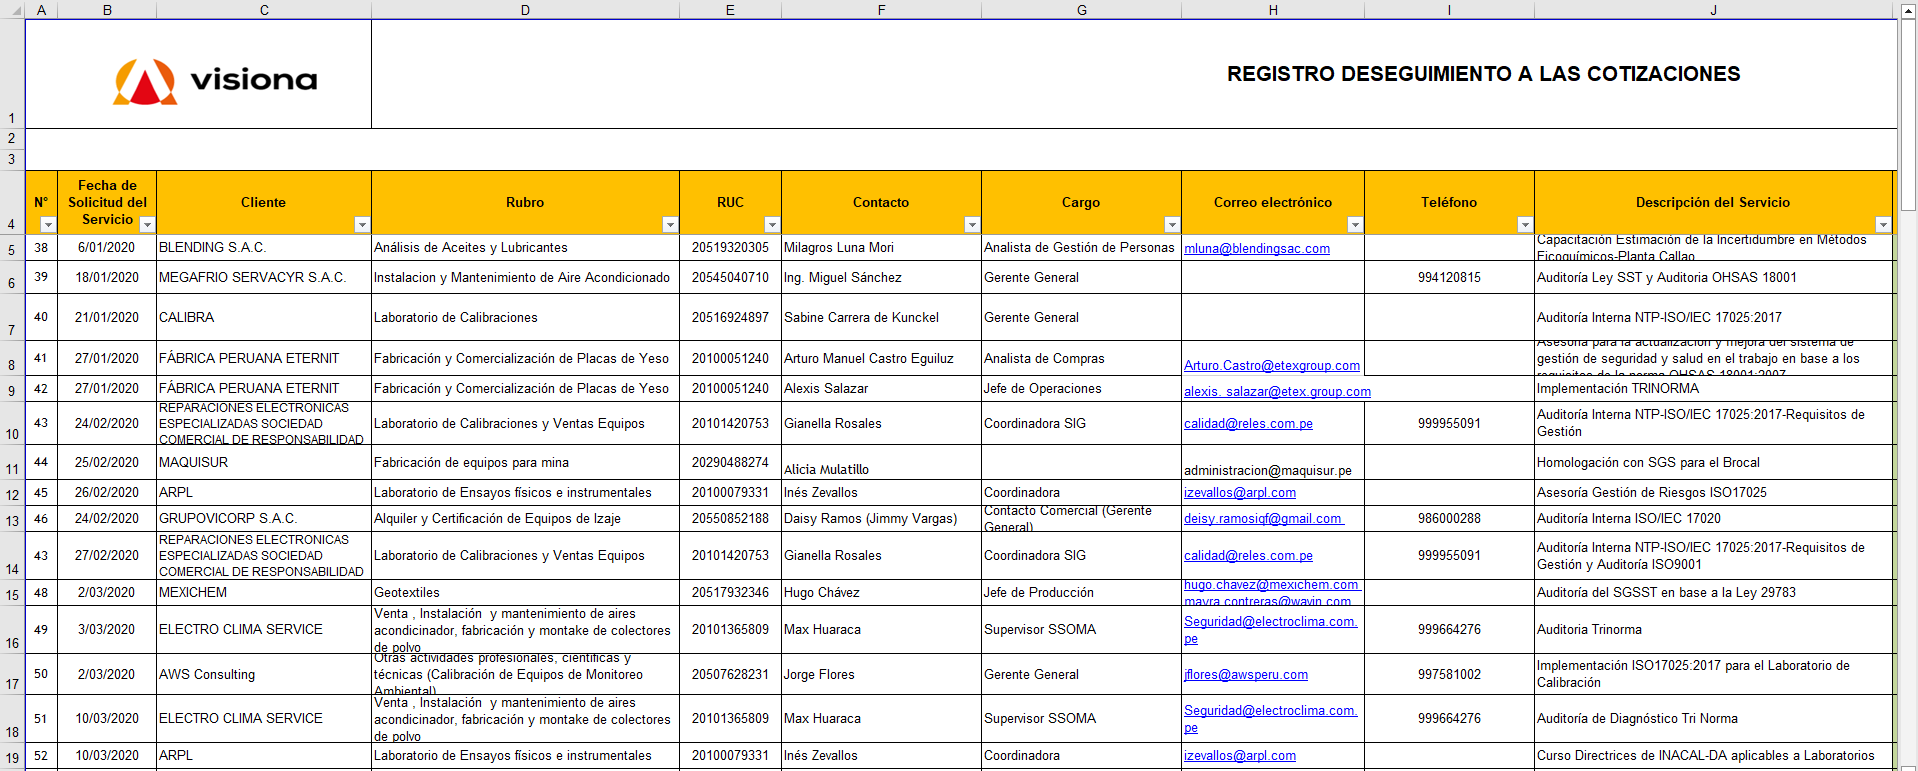
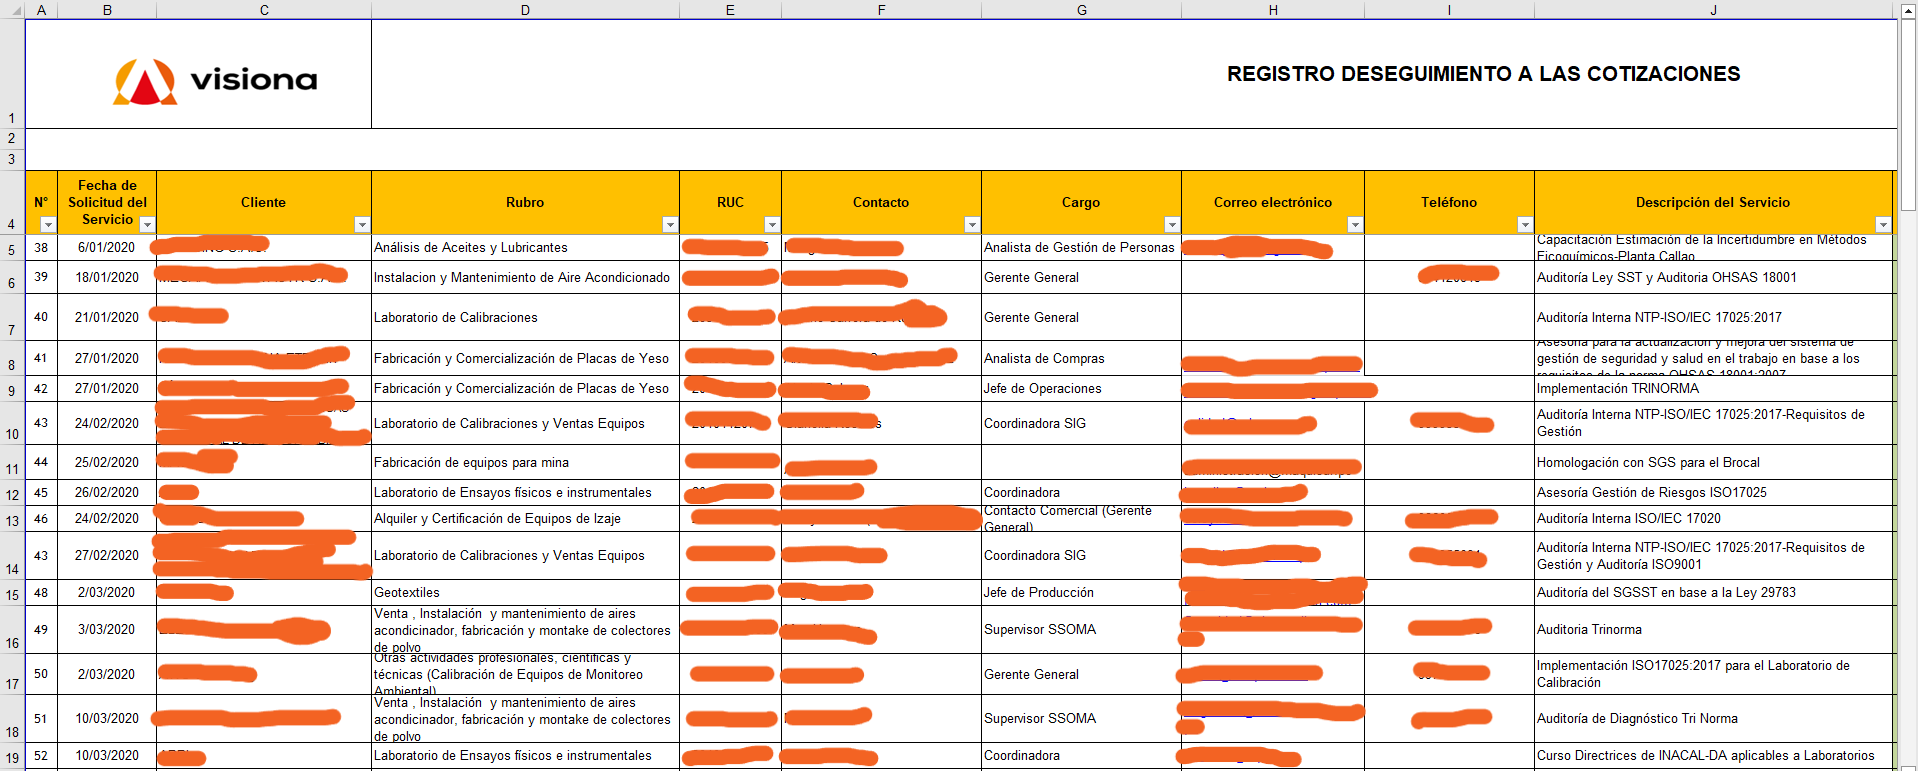
Análisis de Proceso Cotización
Se documentó el proceso actual de cotización, el problema principal del proceso y las alternativas de solución

diff --git a/docs/1-estudio_del_negocio/7-proceso_cotizacion_propuesto.md b/docs/1-estudio_del_negocio/7-proceso_cotizacion_propuesto.md
@@ -1,0 +1,39 @@
+# Solución Propuesta
+
+El presente documento tiene como objetivo documentar la solución propuesta para la mejora del proceso de cotización mediante un sistema de información que permita centralizar la información relevante. Se realizará también un diagrama de proceso para este nuevo proceso.
+
+## Análisis de alternativas
+
+A continuación se presenta una tabla de las alternativas posibles que buscan solucionar el problema identificado, incluyendo ventajas y desventajas:
+
+| Alternativa | Descripción | Ventajas | Desventajas |
+| --- | --- |--- |---|
+| **A1. Mantener proceso manual, optimizando plantillas** | Estandarizar las cotizaciones mediante plantillas en Microsoft Word o Excel y establecer un procedimiento interno para su elaboración y seguimiento.| Muy bajo costo, implementación inmediata, no requiere capacitación técnica.| Continúa dependiendo del trabajo manual, mayor probabilidad de errores, no centraliza la información ni facilita seguimiento.|
+| **A2. Plataforma de gestión comercial existente (CRM)** | Implementar una herramienta comercial en la nube que incluya módulos para clientes, oportunidades y cotizaciones. | Implementación rápida, funcionalidades ya desarrolladas, soporte del proveedor. | Costos de suscripción, funcionalidades innecesarias para la empresa, limitada personalización y dependencia de un tercero.|
+| **A3. Aplicación de escritorio con base de datos local**| Crear un sistema instalado en los equipos de la empresa con una base de datos compartida dentro de la red local.| No depende de Internet para su funcionamiento interno, mayor control sobre los datos.| Requiere que los usuarios trabajen desde la oficina, dificulta el acceso remoto, el mantenimiento y las copias de seguridad son más complejos. |
+| **A4. Sistema web de cotizaciones con servidor web** | Desarrollar un sistema web centralizado, alojado en un servidor web, que permita gestionar clientes, servicios y cotizaciones mediante una base de datos única, accesible desde cualquier equipo autorizado con conexión a Internet. | Información centralizada, acceso remoto, seguimiento de cotizaciones en tiempo real, mayor escalabilidad, facilidad de mantenimiento y respaldo de la información. | Puede requerir una inversión inicial en desarrollo y alojamiento web, además de depender de una conexión a Internet para su funcionamiento.|
+
+## Selección de la Solución
+
+Tras analizar las alternativas propuestas, se selecciona 
+
+``` text
+Sistema web de cotizaciones con servidor web
+```
+
+Esto debido a que ofrece la mejor relación entre funcionalidad, accesibilidad y escalabilidad para las necesidades de Visiona. Esta solución permitirá centralizar la información, automatizar el proceso de elaboración y seguimiento de cotizaciones, reducir errores derivados de la gestión manual y facilitar el acceso al sistema desde cualquier ubicación autorizada.
+
+## Diagrama de Proceso (TO BE)
+
+<img width="1000"  alt="image" src="files/proceso_cotizacion_tobe.png" />  
+
+A continuación, la descripción de cada parte del proceso:
+
+1. El proceso empieza cuando un cliente solicita una cotización; esta comunicación se da mediante el correo electrónico de la empresa, el número de teléfono empresarial u otro medio de comunicación alternativo.
+2. Una vez recibida la solicitud, el encargado de realizar la cotización, verifica si el cliente para el cual se realizará el documento se encuentra registrado o no dentro del sistema. De no estarlo, lo registra con sus datos más relevantes (correo electrónico, persona de contacto, número de teléfono, RUC, etc).
+3. Luego se procede a generar la cotización, en una pestaña, se encuentran todos los bloques a tener en cuenta al momento de generar una cotización, viáticos, costo de servicio, descuentos y demás. Cada bloque puede incluirse o no de ser necesario para el servicio específico. El encargado procede a rellenar cada bloque y procede a generar el documento PDF de la cotización.
+4. El sistema envía la cotización al correo correspondiente y se espera a recibir una respuesta.
+5. De no tener respuesta se cambia el estado de la cotización a: **Sin Respuesta**, y se cierra el proceso.
+6. Si el cliente solicita una reevaluación o una modificación en el serivicio y la cotización, se procede a realziarla, modificando los bloques necesarios, enviando la nueva versión por correo.
+7. Si el cliente no acepta la propuesta, se cambia el estado de cotización a: **Rechazada**.
+8. Si el cliente acepta la propuesta, se cambia el estado de cotización a: **Aceptada**.

diff --git a/docs/1-estudio_del_negocio/6-analisis_causa_efecto.md b/docs/1-estudio_del_negocio/6-analisis_causa_efecto.md
@@ -1,0 +1,39 @@
+# Análisis Causa Efecto
+
+El presente documento tiene como objetivo exponer el principal problema dentro del proceso de realización de cotizaciones y realizar un análisis de las causas principales y los efectos que ocasiona en el trabajo diario de los empleados.
+
+## Problemática
+
+Luego de revisar y analizar la información obtenida tanto de la entrevista con los empleados de la empresa, como de la observación del proceso y recopilación de herramientas usadas; se obtiene que el principal problema dentro del proceso de cotización en Visiona es: :
+
+``` text
+Ineficiencia en el proceso de elaboración y gestión de cotizaciones.
+```
+
+Esto queda en evidencia debido al largo tiempo que se toman los empleados en realizar una cotización desde el recibimiento de solicitud de un cliente, hasta el envío del documento.
+
+Este problema se detallará más en la siguiente sección.
+
+## Árbol de Problemas
+
+He decidido usar este gráfico para visualizar de mejor manera las causas y efectos relacionados con el problema de .A continuación el gráfico:  
+
+<img width="1000"  alt="image" src="files/arbol_de_problemas.png" />  
+
+### Causas
+
+1. **Ausencia de un sistema de información para gestionar cotizaciones:** Esta es la principal causa de que el trabajo se realice de forma manual, no se cuenta con una base de datos centralziada que permita gestionar, clientes, servicios, tipos de servicios, cotizaciones antiguas y demás información relevante. Toda la información se encuentra en archivos dispersos y sin un orden completamente establecido.
+
+2. **Procesos poco estandarizados:** El flujo de trabajo para elaborar una cotización no está bien definido. Si bien se realizó un diagrama de proceso para representar el orden de las actividades para generar una cotización; esto no contempla el trabajo individual que realiza cada trabajador diferente en cada actividad del gráfico. Cada colaborador calcula presupuestos a su manera y sin estándares claros
+
+3. **Gestión documental limitada:** Si bien todos los documentos de cotizaciones pasadas se encuentran en el repositorio Mega, estos son difíciles de consultar. Estos están ordenandos por cliente, luego por año y finalmente por el servicio; por lo mismo, un trabajador debe recordar cuándo y a quién se le dió un serivicio similar, solo para encontrar los datos respectivos.
+
+### Efectos 
+
+1. **Mayor tiempo para elaborar cotizaciones:** El principal efecto negativo, pues debido a los diversos criterios que se deben tomar en cuenta para hacer una cotización, el desarrollo de estas puede tomar más de dos días (otros factores del tiempo tan extenso es debido a la carga operativa de los trabajadores que también deben continuar con las labores de los proyectos).
+
+2. **Dificultad para hacer seguimiento de las cotizaciones enviadas:** El seguimiento es totalmente manual, por lo que se basa únicamente en la memoria de los trabajadores para saber qué cotizaciones requierenr respuesta o modificaciones.
+
+3. **Disminuación de la enficiencia operativa:** La extensa labor en la elaboración de cotizaciones genera que se gaste más tiempo en este proceso y mucho menos en labores operativas relacionadas directamente con los servicios.
+
+4. **Pérdidas por retrasos o errores:** El tiempo extenso de respuesta puede ocasionar que los posibles clientes pierdán interés o encuentren una mejor oferta en menor tiempo.

diff --git a/docs/0-planificacion/3-horas_trabajo.md b/docs/0-planificacion/3-horas_trabajo.md
@@ -12,10 +12,10 @@ Durante el desarrollo del proyecto, es posible realizar actividades no previstas
 |---|---|---|---|---|---|---|---|---|---|
 | 1 | Recopilar información | 22/07/26 | 22/07/06 | 30 min | 22/07/26 | 22/07/06 | 20 min | 10 min | Terminado :white_check_mark: | 
 | 2 | Análisis FODA CANVAS | 23/07/26 | 23/07/26 | 1 hora | 23/07/26 | 23/07/26 | 1.5 horas | 30 min | Terminado :white_check_mark: | 
-| 3 | Realizar entrevista | 24/07/26 | 24/07/26 | 30 min | — | — | — | — | Pendiente |
-| 4 | Observar el proceso actual | 24/07/26 | 24/07/26 | 15 min | — | — | — | — | Pendiente | 
-| 5 | Documentar el proceso actual | 24/07/26 | 24/07/26 | 1 hora | — | — | — | — | Pendiente |
-| 6 | Análisis causa efecto | 24/07/26 | 24/07/26 | 30 min | — | — | — | — | Pendiente |
+| 3 | Realizar entrevista | 24/07/26 | 24/07/26 | 30 min | 24/07/26 | 24/07/26 | 30 min | 0 min | Terminado :white_check_mark:|
+| 4 | Observar el proceso actual | 24/07/26 | 24/07/26 | 15 min | 24/07/26 | 24/07/26 | 10 min | 5 min | Terminado  :white_check_mark:| 
+| 5 | Documentar el proceso actual | 24/07/26 | 24/07/26 | 1 hora | 24/07/26 | 24/07/26 | 1 hora | 0 min | Terminado  :white_check_mark:|
+| 6 | Análisis causa efecto | 24/07/26 | 24/07/26 | 30 min | 24/07/26 | 24/07/26 | 25 min | 5 min | Terminado  :white_check_mark:|
 | 7 | Plantear Solución | 24/07/26 | 24/07/26 | 1 hora | — | — | — | — | Pendiente |
 | 8 | Documentar el proceso propuesto | 24/07/26 | 24/07/26 | 30 min | — | — | — | — | Pendiente |
 | 9 | Validar la propuesta con la empresa | 24/07/26 | 24/07/26 | 10 min | — | — | — | — | Pendiente |
@@ -24,8 +24,8 @@ Durante el desarrollo del proyecto, es posible realizar actividades no previstas
 
 | ID | Actividad | Fecha de inicio estimada | Fecha de fin estimada | Tiempo estimado | Fecha de inicio real | Fecha de fin real | Tiempo real | Variación | Estado |
 |---|---|---|---|---|---|---|---|---|---|
-| 1 | Identificar stakeholders| — | — | — | — | — | — | — | Pendiente |
-| 2 | Recopilar necesidades | — | — | — | — | — | — | — | Pendiente |
+| 1 | Recopilar necesidades | — | — | — | — | — | — | — | Pendiente |
+| 2 | Identificar stakeholders| — | — | — | — | — | — | — | Pendiente |
 | 3 | Definir objetivos y alcance| — | — | — | — | — | — | — | Pendiente |
 | 4 | Identificar requisitos funcionales | — | — | — | — | — | — | — | Pendiente |
 | 5 | Identificar requisitos no funcionales | — | — | — | — | — | — | — | Pendiente |

diff --git a/docs/1-estudio_del_negocio/5-proceso_cotizacion_actual.md b/docs/1-estudio_del_negocio/5-proceso_cotizacion_actual.md
@@ -18,13 +18,27 @@ Documento Word en el cual llenan los datos necesarios de acuerdo al cliente, tip
 
 Libro de Excel en el que se guardan todas las cotizaciones realizadas, separadas por año. Cada hoja del libro contiene un año diferente, en el cual están registrados cada cotización con los datos respectivos; sim embargo, la tabla usada cada año varía, no hay validación de tipos de datos, fechas, precios, nombres, etc. Esta información sirve únicamente para tener un registro histórico y para copiar datos de cliente, no siento útil como base de datos integrada que permita rellenar la plantilla más velozmente. A continuación dos imagenes correspondientes a las cotizaciones del año 2020: [^1] 
 
-<img width="800" alt="image" src="files/historico_cotizaciones_1.png" />   
+<img width="1000" alt="image" src="files/historico_cotizaciones_1.png" />   
 
 Registro histórico cotizaciones 1  
 
-<img width="800"  alt="image" src="files/historico_cotizaciones_2.png" />  
+<img width="1000"  alt="image" src="files/historico_cotizaciones_2.png" />  
 
 Registro histórico cotizaciones 2
+
+### **3. Excel de Cálculo de Presupuesto**
+
+Libro de Excel en el cuál se incluyen todos los costos del servicio y que sirve para completar la plantilla de cotización mencionada anteriormente. Este documento no se realiza para todas las solicitudes de cotizaciones, solo para algunas específicas que resultan complicadas. Por otro lado, también es importante mencionar que no existe una plantilla para este cálculo, por lo que cada Presupuesto tiene un formato distinto. A continuación una imagen de ejmplo del cálculo de presupuesto para un proyecto de asesoría de 6 días de la ISO 17020:
+
+<img width="1000"  alt="image" src="files/plantilla_presupuesto.png" />  
+
+### **4. Servicio de Almacenamiento en la Nube**
+
+La empresa cuenta con un servicio de Mega, en el cual guardan toda la información de las cotizaciones, todos los documentos enviados, el Excel histórico y los Excel de presupuestos. Sin embargo la carpeta no se encuentra estandarizada al 100%. Las carpetas se encuentran divididas primero por clientes, luego por año y finalmente por servicio; pero no en todos los casos se cumplen, hay elementos dispersos en cada cliente, otros documentos como facuturas y no hay correcto seguimiento de versiones.
+
+### **5. Correo Electrónico**
+
+El mecanismo por el cuál reciben y envián información a los clientes. Actualmente lo realizan por medio de Outlook y cuentan con un dominio de correo electrónico para la empresa.
 
 ## Diagrama de Proceso (AS IS)
 

diff --git a/docs/1-estudio_del_negocio/1-descripcion_general.md b/docs/1-estudio_del_negocio/1-descripcion_general.md
@@ -1,5 +1,7 @@
 # Análisis Visiona
 
+El presente documento tiene como objetivo realizar un resumen básico de la empresa Visiona, conociendo de manera general su estructura y servicios que ofrece.
+
 ### Descripción General
 
 Visiona, es una consultora peruana, especializada en el diseño e implantación de sistemas de gestión para empresas nacionales y transnacionales. Estos proyectos son dirigidos por su staff de asesores multidisciplinarios, con experiencia y calificaciones reconocidas en el rubro.

diff --git a/docs/0-planificacion/1-metodologia.md b/docs/0-planificacion/1-metodologia.md
@@ -40,8 +40,8 @@ En esta segunda etapa se busca definir de manera clara y organizada las funcione
 
 ### Actividades principales
 
-- Identificar a los usuarios y actores del sistema.
 - Recopilar las necesidades de cada usuario mediante entrevista.
+- Identificar a los usuarios y actores del sistema.
 - Definir los objetivos y alcance del sistema.
 - Identificar los requisitos funcionales.
 - Identificar los requisitos no funcionales.

diff --git a/docs/1-estudio_del_negocio/3-analisis_canvas.md b/docs/1-estudio_del_negocio/3-analisis_canvas.md
@@ -1,3 +1,3 @@
 # Análisis de Negocio CANVAS
 
-<img src = "files/analisis_CANVAS.png" height = 500>
+<img src = "files/analisis_CANVAS.png" height = 800>

diff --git a/docs/1-estudio_del_negocio/2-anailisis_foda.md b/docs/1-estudio_del_negocio/2-anailisis_foda.md
@@ -1,3 +1,3 @@
 # Análisis FODA
 
-<img src = "files/analisis_FODA.png" height = 500>
+<img src = "files/analisis_FODA.png" height = 800>

diff --git a/docs/1-estudio_del_negocio/4-resumen_entrevista.md b/docs/1-estudio_del_negocio/4-resumen_entrevista.md
@@ -1,0 +1,1 @@
+# Entrevista Análisis de Proceso
